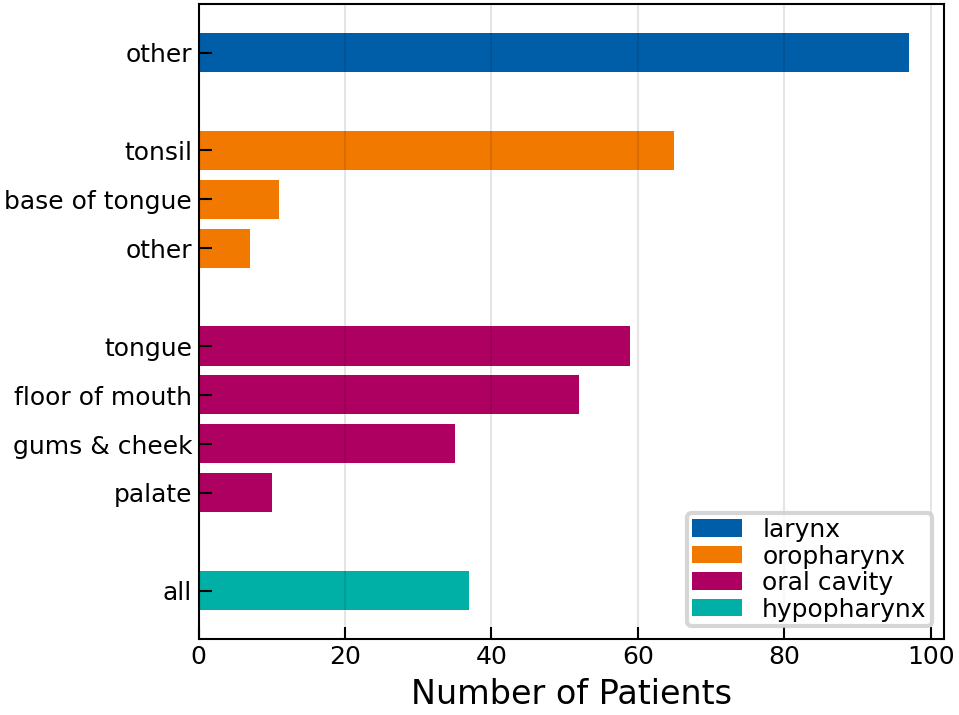
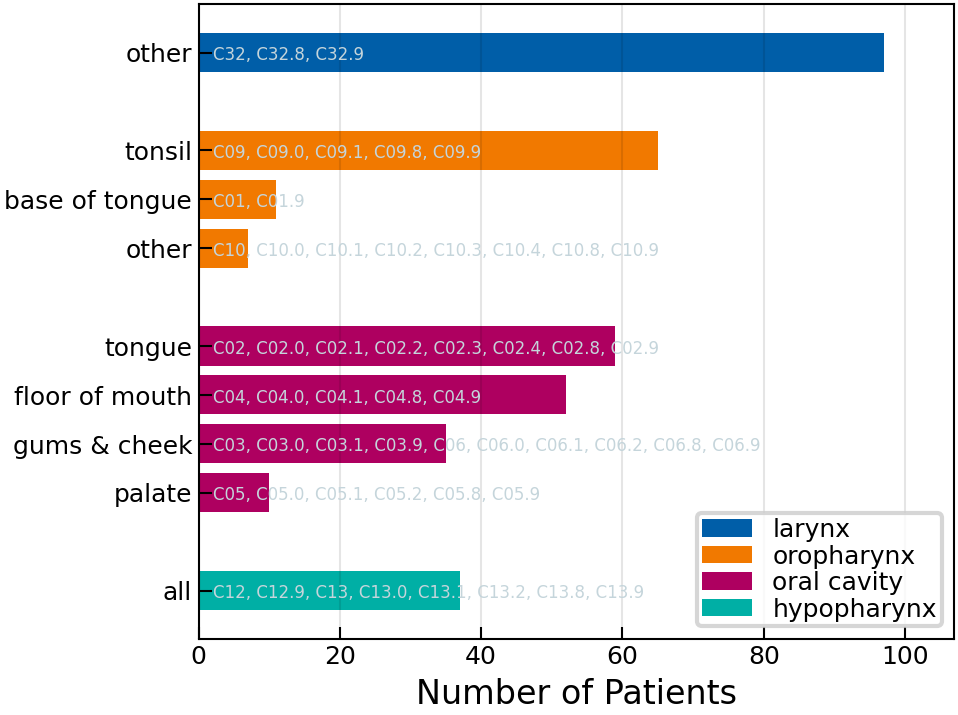
add ICD codes to subsite plots

diff --git a/scripts/subsite.py b/scripts/subsite.py
@@ -1,11 +1,10 @@
 """
 Plot the distribution over primary tumor subsites.
 """
+from cgitb import text
 from collections import defaultdict
 from pathlib import Path
 import argparse
-import re
-import textwrap
 
 import pandas as pd
 import matplotlib.pyplot as plt
@@ -56,6 +55,13 @@ SUBSITE_DICT = {
 }
 FLAT_SUBSITE_DICT = flatten(SUBSITE_DICT)
 INVERTED_FLAT_SUBSITE_DICT = invert(FLAT_SUBSITE_DICT)
+JOINED_SUBSITE_DICT = {}
+for location, subdict in SUBSITE_DICT.items():
+    JOINED_SUBSITE_DICT[location] = set()
+    for subsite, icds in subdict.items():
+        JOINED_SUBSITE_DICT[location] = JOINED_SUBSITE_DICT[location].union(
+            {icd.split(".")[0] for icd in icds}
+        )
 
 
 if __name__ == "__main__":
@@ -64,7 +70,8 @@ if __name__ == "__main__":
         description=__doc__,
     )
     parser.add_argument(
-        "data", type=Path, help="Path to the data file.",
+        "--data", type=Path, default="2023-isb-multisite/data.csv",
+        help="Path to the data file.",
     )
     args = parser.parse_args()
 
@@ -96,20 +103,31 @@ if __name__ == "__main__":
     cursor = 0
     positions = []
     labels = []
+    max_count = 0
     for i, (location, subdict) in enumerate(sorted_subsites.items()):
         location_positions = []
         location_values = []
         for j, (subsite, count) in enumerate(subdict.items()):
+            if count > max_count:
+                max_count = count
+            icds = {icd for icd in SUBSITE_DICT[location][subsite]}
             location_positions.append(cursor)
             location_values.append(count)
             labels.append(subsite)
+            ax.text(
+                x=2,
+                y=cursor - 0.15,
+                s=", ".join(sorted(icds)),
+                fontsize=4,
+                color=COLORS["gray"],
+            )
             cursor -= intra_loc_space
-
         ax.barh(location_positions, location_values, label=location)
 
         positions = [*positions, *location_positions]
         cursor -= inter_loc_space
 
+    ax.set_xlim(0, max_count + 10)
     ax.set_xlabel("Number of Patients")
     ax.set_yticks(positions)
     ax.set_yticklabels(labels)
